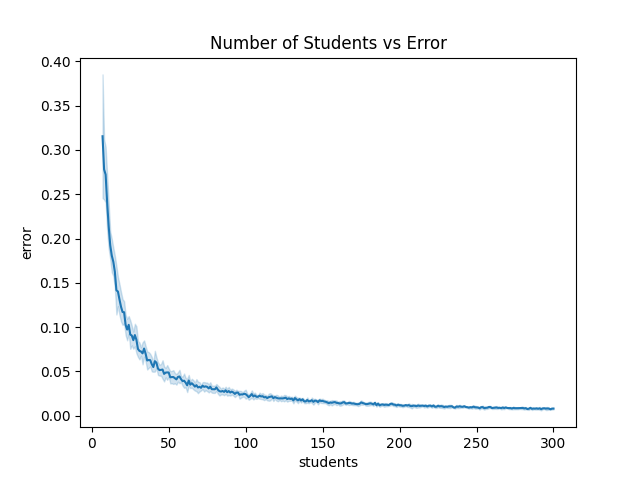
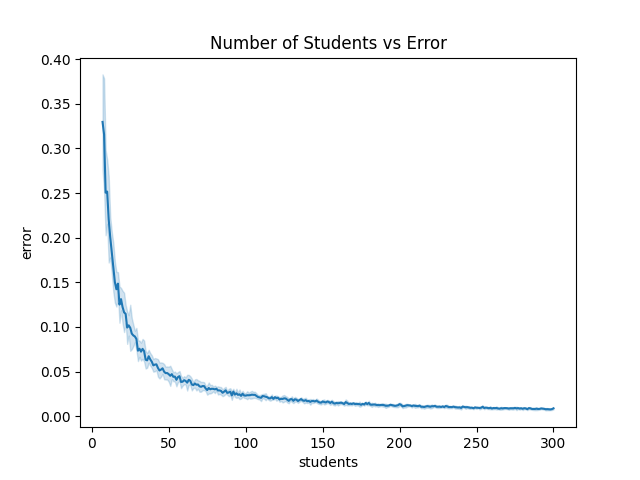
added beans error

diff --git a/NRMA.py b/NRMA.py
@@ -3,6 +3,8 @@ import numpy as np
 
 # using optimized linear sums problem solver
 from scipy.optimize import linear_sum_assignment
+# used for optimal number of beans
+from scipy.special import factorial
 # np.random.seed(44106)
 
 # mutable global variables
@@ -15,6 +17,7 @@ penalty = "beans"
 n_beans = 24
 simulate = True
 n_student = 7
+n_rotations = 4
 
 # definitions and converters
 rotationdict = {0: "Option 1", 1: "Option 2", 2: "Option 3", 3: "Option 4"}
@@ -26,7 +29,7 @@ option_to_order_dict = {
 }
 
 def create_cost_matrix():
-	cost_matrix = np.random.randint(n_beans // 4, size = (75, 4))
+	cost_matrix = np.random.randint(n_beans // n_rotations, size = (75, n_rotations))
 	return pad_matrix(cost_matrix)
 
 def build_cost_matrix(preference_df):
@@ -60,11 +63,11 @@ def pad_matrix(cost):
 	global phantom_students
 	phantom_students = 0
 
-	while np.shape(cost)[0] % 4 != 0:
+	while np.shape(cost)[0] % n_rotations != 0:
 		cost = np.vstack([cost, [n_beans, n_beans, n_beans, n_beans]])
 		phantom_students += 1
 
-	cost = np.tile(cost, (1, np.shape(cost)[0] // 4))
+	cost = np.tile(cost, (1, np.shape(cost)[0] // n_rotations))
 	return cost
 
 
@@ -77,7 +80,7 @@ def rotation_calc(cost):
 	row_ind, col_ind = linear_sum_assignment(cost)
 	err = cost[row_ind, col_ind].sum()
 
-	rotation_index = col_ind % 4  # re-wraps the indicies to their human readable form
+	rotation_index = col_ind % n_rotations # re-wraps the indicies to their human readable form
 	rotations = [rotationdict.get(index) for index in rotation_index]
 	# update_cost_matrix(row_ind, rotation_index)
 
@@ -165,12 +168,28 @@ def plot_students():
 	import matplotlib.pyplot as plt
 	import seaborn as sns
 
-	sns.lineplot(data = error_df, x = "students", y = "error", errorbar='sd').set(title = 'Number of Students vs Error')
+	sns.lineplot(data = error_df, x = "students", y = "error", errorbar = 'sd').set(title = 'Number of Students vs Error')
 	plt.savefig('students_error.png')
+	plt.clf()
+
+def plot_beans():
+	import matplotlib.pyplot as plt
+	import seaborn as sns
+
+	sns.lineplot(data = error_df, x = "beans", y = "error", errorbar = 'sd').set(title = 'Number of Beans vs Error')
+	plt.savefig('beans_error.png')
+	plt.clf()
 
 error_df = pd.DataFrame(columns = ['students', 'beans', 'error'])
-for i in range(7, 301):
+for i in range(2 * n_rotations - 1, 301):
 	n_student = i
 	for j in range(10):
 		main()
 plot_students()
+
+error_df = pd.DataFrame(columns = ['students', 'beans', 'error'])
+for i in range(factorial(n_rotations, exact=True), 96):
+	n_beans = i
+	for j in range(10):
+		main()
+plot_beans()

diff --git a/README.md b/README.md
@@ -32,8 +32,10 @@ To determine the performance of the rotation assignment, we defined a novel erro
 
 ## Results
 ![error by number of students](./students_error.png)
-2. compare number of post-assignment swaps from previous years vs this year
-3. real world this year (number of swaps, satisfaction, etc.)
+![error by number of beans](./beans_error.png)
+
+1. compare number of post-assignment swaps from previous years vs this year
+2. real world this year (number of swaps, satisfaction, etc.)
 
 ## Discussion
 1. summary/key findings
